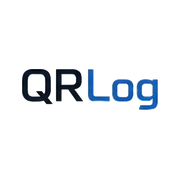
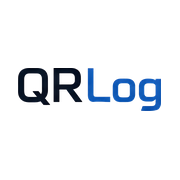
brand: the real QRLog wordmark, everywhere it appears
The file the app has been showing as the QRLog logo was a logo SHEET — the square
QR mark, a vertical divider and the wordmark, all baked into one image. Wherever
the product brand was drawn (the login chip, the employee header, the printed
poster, the group board) that divider line came along with it.

The owner supplied the actual wordmark, so every place is regenerated from it:
the transparent wordmark for the app, the square icons for QRLog tenants and the
root defaults, and the landing header at 2x for retina. The landing's mark-only
files are untouched — the new source has no square mark to derive them from.

The service-worker cache goes v3→v4, which is what carries the new icons onto
phones that already installed the app.

Changed region(s): [[0.0833, 0.3611, 0.5278, 0.5833], [0.5, 0.4167, 0.9167, 0.6389]]

diff --git a/frontend/public/sw.js b/frontend/public/sw.js
@@ -18,9 +18,10 @@
  *
  * Bump CACHE to force-invalidate on a breaking service-worker change (activate deletes every other
  * cache — v1→v2 evicted the stale Bakı Abadlıq icons from existing installs, and v2→v3 does the same
- * for bax after it was corrected to Green Garden: the company was misnamed, so its icons changed too).
+ * for bax after it was corrected to Green Garden, and v3→v4 for the QRLog wordmark itself, which was
+ * replaced with the clean one — the old file was a sheet with the square mark and a divider baked in).
  */
-const CACHE = 'qrlog-shell-v3'
+const CACHE = 'qrlog-shell-v4'
 const SHELL = '/index.html'
 
 self.addEventListener('install', (event) => {
